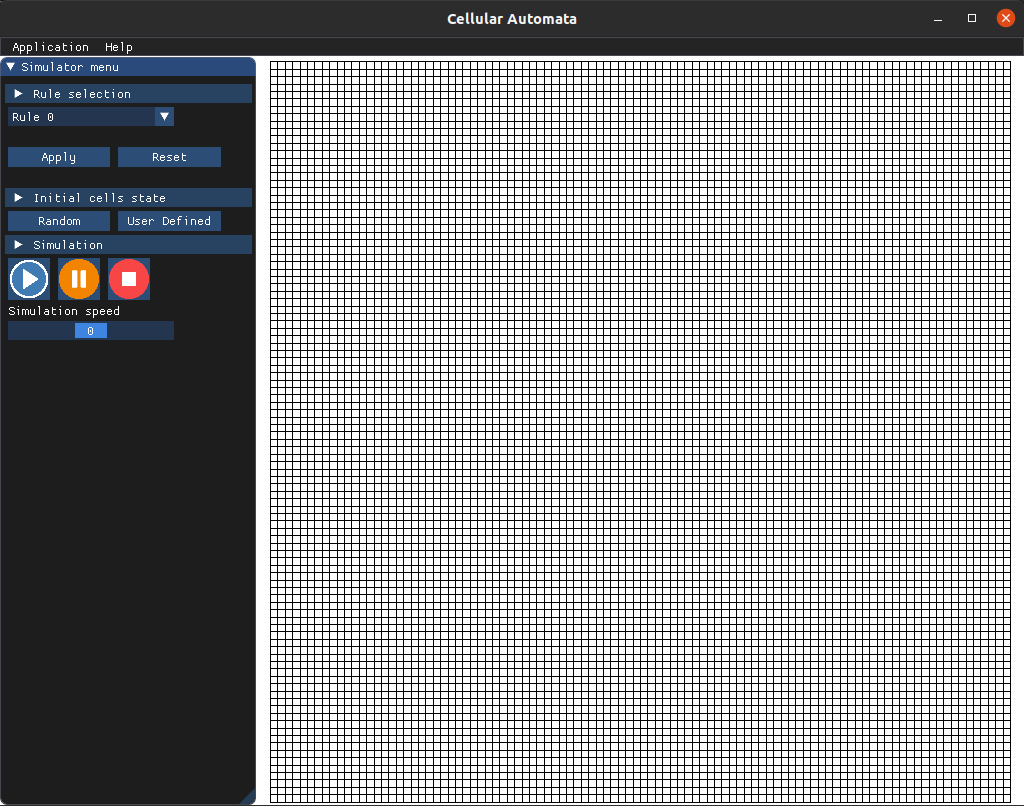
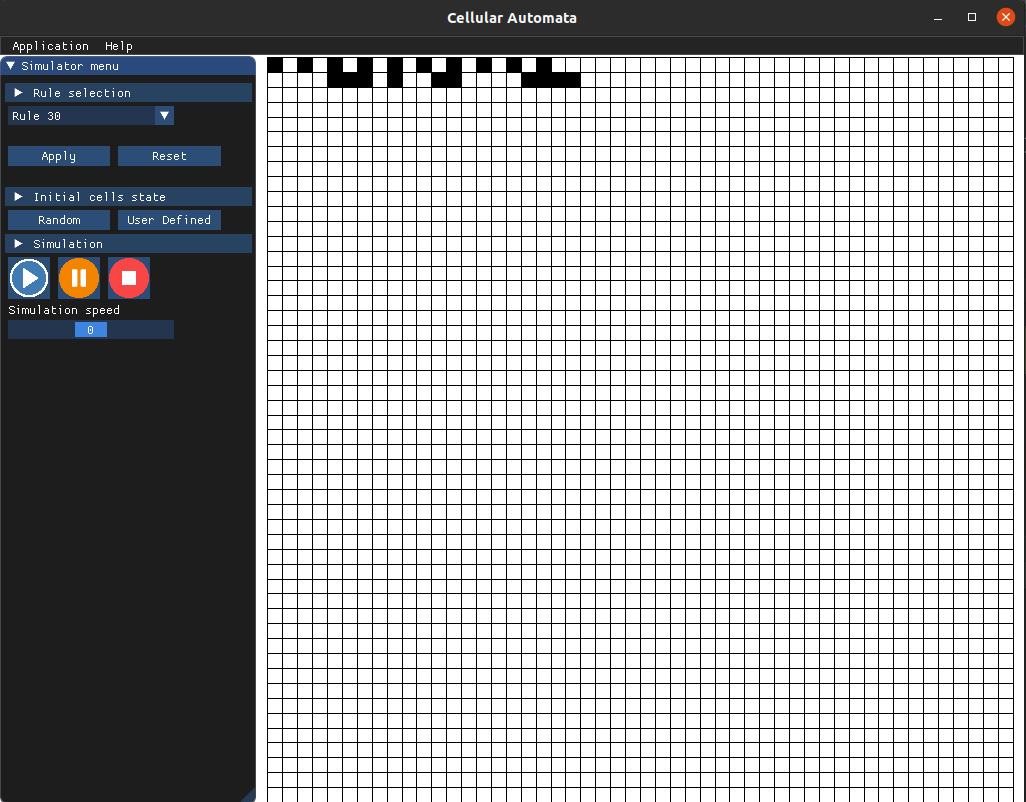
General: Update README

diff --git a/Simulator/test/rules_creator_test.cpp b/Simulator/test/rules_creator_test.cpp
@@ -6,7 +6,7 @@
 TEST(RulesTest, GivenCallToBasicRulesCreation_WhenCreated_ThenRulesCorrectlyCreated) {
     constexpr std::size_t expected_size{256};
 
-    const auto &rules{RuleCreator::CreateBasicRules()};
+    const auto &rules{RulesCreator::CreateBasicRules()};
 
     ASSERT_EQ(rules.size(), expected_size);
 
@@ -28,7 +28,7 @@ TEST_P(RulesCreatorTestFixture, GivenValidRule_WhenMappingCellNeighborStatesWith
     const auto &[cell_neighborhood_states, expected_rule_cell_state] = GetParam();
 
     const std::bitset<8> rule{30};
-    const auto &mapped_cell_states_with_rules{RuleCreator::MapCellNeighborhoodStatesWithRules(rule)};
+    const auto &mapped_cell_states_with_rules{RulesCreator::MapCellNeighborhoodStatesWithRuleOutput(rule)};
 
     const auto &actual_rule_cell_state{mapped_cell_states_with_rules.find(cell_neighborhood_states)};
     EXPECT_EQ(actual_rule_cell_state->second, expected_rule_cell_state)

diff --git a/Simulator/src/rules_creator.cpp b/Simulator/src/rules_creator.cpp
@@ -2,7 +2,7 @@
 #include "ThirdParty/fmt/include/fmt/core.h"
 #include <bitset>
 
-Rules RuleCreator::CreateBasicRules() {
+Rules RulesCreator::CreateBasicRules() {
     constexpr std::size_t rules_count{256};
 
     Rules rules;
@@ -15,7 +15,7 @@ Rules RuleCreator::CreateBasicRules() {
     return rules;
 }
 
-std::map<CellNeighborhoodStates, bool> RuleCreator::MapCellNeighborhoodStatesWithRules(std::bitset<8> rule) {
+std::map<CellNeighborhoodStates, bool> RulesCreator::MapCellNeighborhoodStatesWithRuleOutput(const std::bitset<8> &rule) {
     std::map<CellNeighborhoodStates, bool> cell_states_;
 
     for (std::size_t i{0}; i < rule.size(); i++) {

diff --git a/Simulator/src/rules_creator.h b/Simulator/src/rules_creator.h
@@ -4,10 +4,10 @@
 #include "Simulator/src/data.h"
 #include <map>
 
-namespace RuleCreator {
+namespace RulesCreator {
     Rules CreateBasicRules();
 
-    std::map<CellNeighborhoodStates, bool> MapCellNeighborhoodStatesWithRules(std::bitset<8> rule);
+    std::map<CellNeighborhoodStates, bool> MapCellNeighborhoodStatesWithRuleOutput(const std::bitset<8> &rule);
 }
 
 #endif //GAMEOFLIFE_GUI_SRC_RULES_H_

diff --git a/GUI/src/viewport.cpp b/GUI/src/viewport.cpp
@@ -3,7 +3,7 @@
 #include <chrono>
 
 Viewport::Viewport(sf::RenderWindow &window) : window_(window), grid_(new Grid) {
-    grid_->SetGridSize(2, 21);
+    grid_->SetGridSize(50, 50);
     grid_shapes_ = std::make_unique<std::vector<sf::RectangleShape>>(grid_->CreateGrid());
     cell_states_ = std::make_unique<std::vector<sf::RectangleShape>>();
 }

diff --git a/runner.cpp b/runner.cpp
@@ -18,7 +18,7 @@ int main() {
     ImGui::SFML::Init(window);
 
     /// Setup
-    Data::rules = RuleCreator::CreateBasicRules();
+    Data::rules = RulesCreator::CreateBasicRules();
     Data::current_rule = Data::rules.front();
     SimulatorState simulator_state;
 

diff --git a/README.md b/README.md
@@ -22,10 +22,14 @@ sudo apt install -y build-essential libsfml-dev libcurl4-openssl-dev libglew-dev
 ### Preview
 
 Still in development, but here is a sneak peak.
-Main menu:
+
+* Main menu
 ![](Images/app_preview_1.png)
 
-Simulation screen:
+* Simulation screen - grid size 50x50 and state changing grid cells
 ![](Images/app_preview_2.png)
+
+* Simulation screen - grid size 2x20 and state changing grid cells
+![](Images/app_preview_3.png)
 
 
